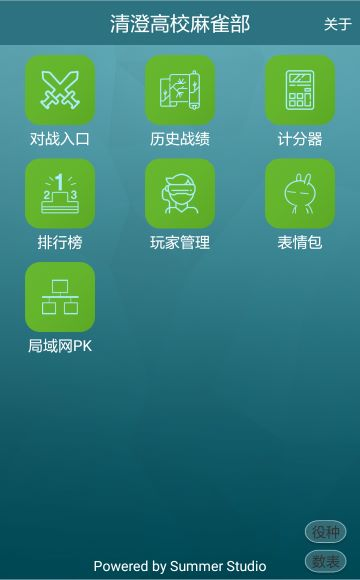
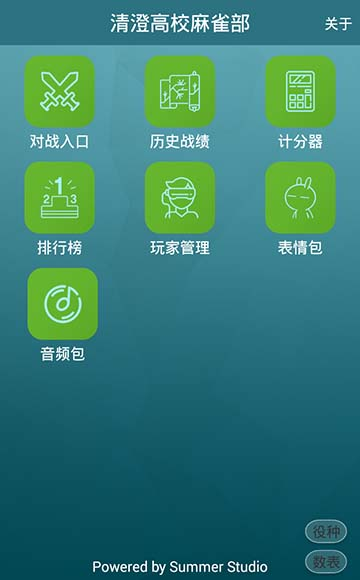
1.增加文件按修改时间排序；2.增加批量导入表情包功能；3.将音频包功能独立出来，增加部分音效（更新会清除之前设置）；4.导出玩家时包含音频包及表情包数据；

diff --git a/README.md b/README.md
@@ -36,7 +36,8 @@
 ![image](https://github.com/WaSuper/Mahjong/blob/master/%E7%A4%BA%E4%BE%8B%E5%9B%BE%E7%89%87/5_emoticon.jpg)![image](https://github.com/WaSuper/Mahjong/blob/master/%E7%A4%BA%E4%BE%8B%E5%9B%BE%E7%89%87/6_emoticon_detail.jpg)
 
 七.音频包
-将玩家音效独立出来统一设置
+将玩家音效独立出来统一设置，可以为每个玩家单独设置一套音频
+![image](https://github.com/WaSuper/Mahjong/blob/master/%E7%A4%BA%E4%BE%8B%E5%9B%BE%E7%89%87/20_soundbox.jpg)![image](https://github.com/WaSuper/Mahjong/blob/master/%E7%A4%BA%E4%BE%8B%E5%9B%BE%E7%89%87/21_soundbox_detail.jpg)
 
 最后，祝各位日麻爱好者餐餐烧鸡，炮声长鸣，人人都会驾飞机！
 
